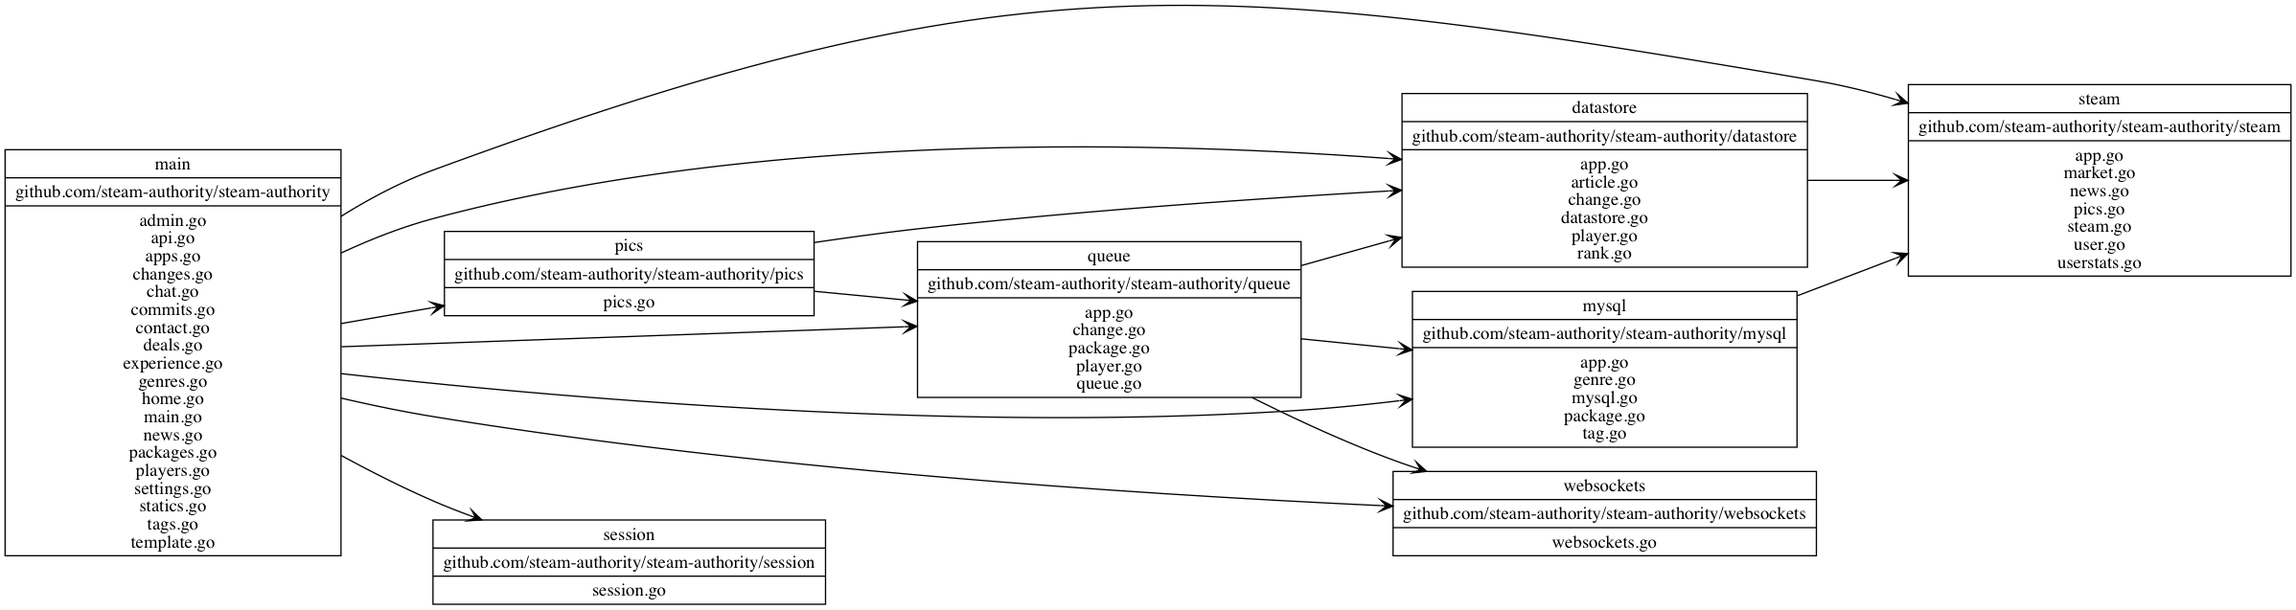
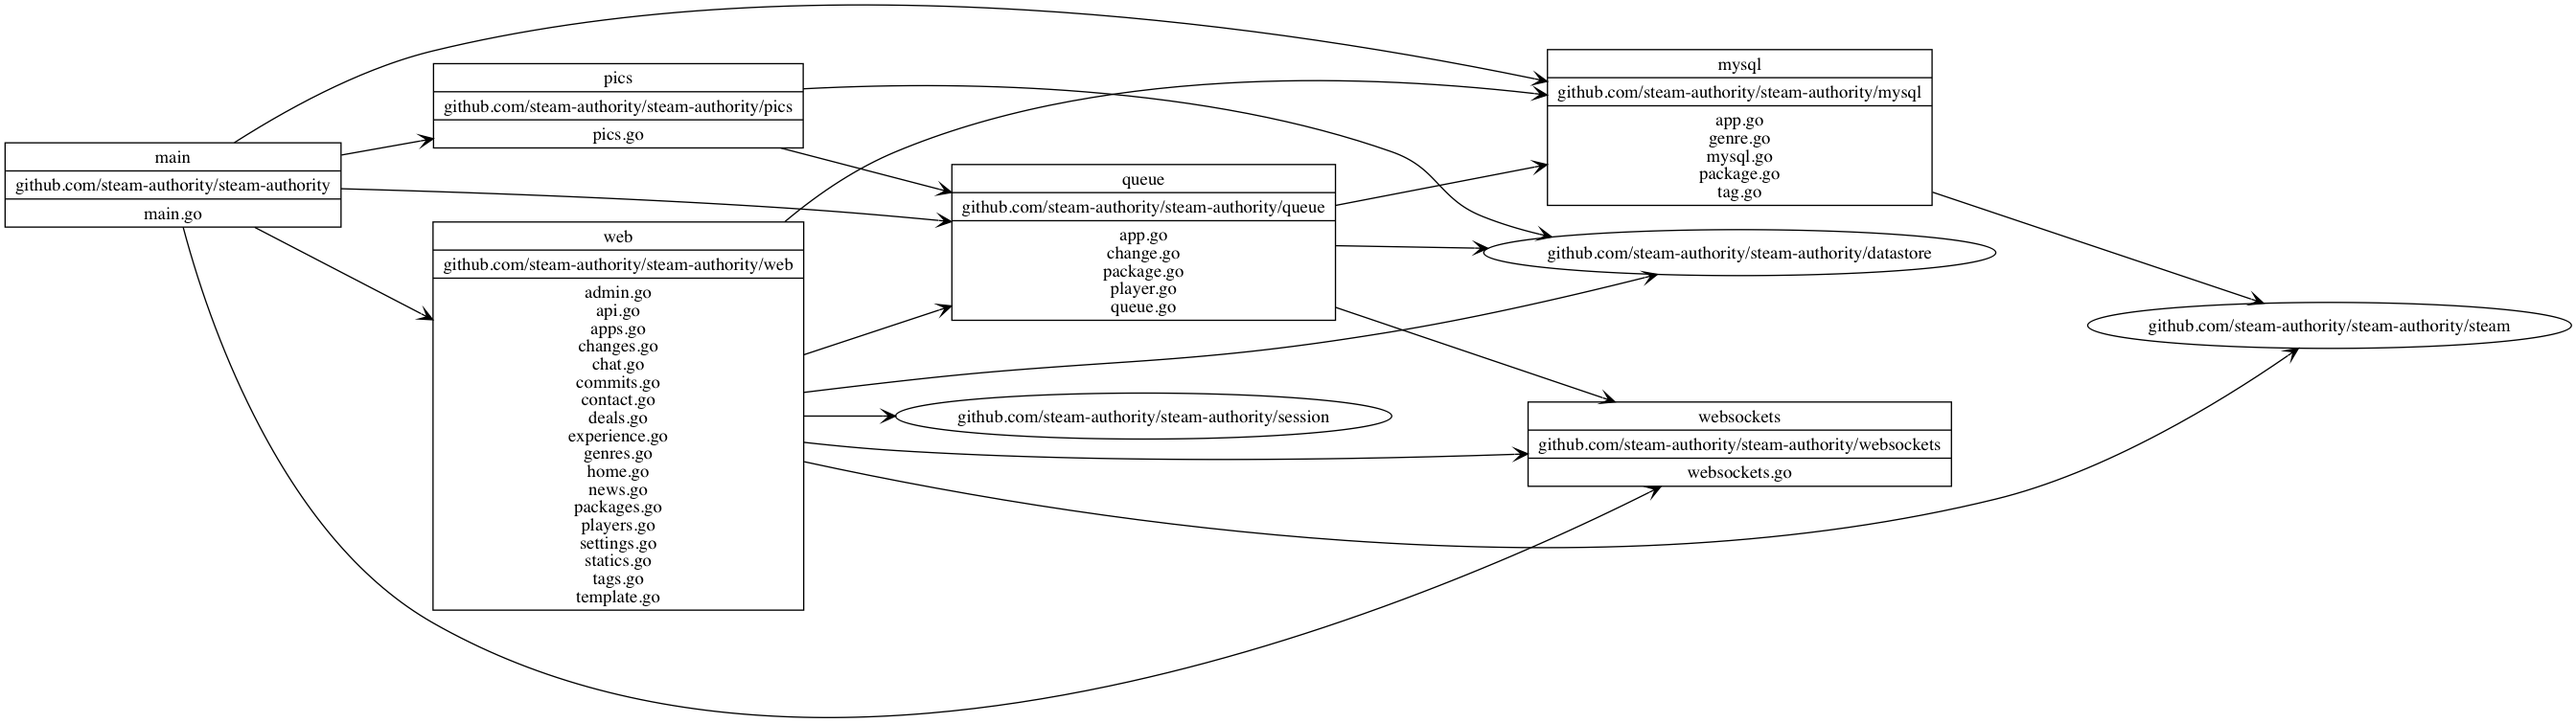
Move handlers to own package

diff --git a/main.go b/main.go
@@ -13,6 +13,7 @@ import (
 	"github.com/steam-authority/steam-authority/mysql"
 	"github.com/steam-authority/steam-authority/pics"
 	"github.com/steam-authority/steam-authority/queue"
+	"github.com/steam-authority/steam-authority/web"
 	"github.com/steam-authority/steam-authority/websockets"
 )
 
@@ -68,50 +69,50 @@ func main() {
 
 	r.Mount("/admin", adminRouter())
 
-	r.Get("/apps", appsHandler)
-	r.Get("/apps/{id}", appHandler)
-	r.Get("/apps/{id}/{slug}", appHandler)
+	r.Get("/apps", web.AppsHandler)
+	r.Get("/apps/{id}", web.AppHandler)
+	r.Get("/apps/{id}/{slug}", web.AppHandler)
 
-	r.Get("/changes", changesHandler)
-	r.Get("/changes/{id}", changeHandler)
+	r.Get("/changes", web.ChangesHandler)
+	r.Get("/changes/{id}", web.ChangeHandler)
 
-	r.Get("/chat", chatHandler)
-	r.Get("/chat/{id}", chatHandler)
+	r.Get("/chat", web.ChatHandler)
+	r.Get("/chat/{id}", web.ChatHandler)
 
-	r.Get("/contact", contactHandler)
-	r.Post("/contact", postContactHandler)
+	r.Get("/contact", web.ContactHandler)
+	r.Post("/contact", web.PostContactHandler)
 
-	r.Get("/deals", dealsHandler)
-	r.Get("/deals/{id}", dealsHandler)
+	r.Get("/deals", web.DealsHandler)
+	r.Get("/deals/{id}", web.DealsHandler)
 
-	r.Get("/experience", experienceHandler)
-	r.Get("/experience/{id}", experienceHandler)
+	r.Get("/experience", web.ExperienceHandler)
+	r.Get("/experience/{id}", web.ExperienceHandler)
 
-	r.Get("/login", loginHandler)
-	r.Get("/logout", logoutHandler)
-	r.Get("/login-callback", loginCallbackHandler)
+	r.Get("/login", web.LoginHandler)
+	r.Get("/logout", web.LogoutHandler)
+	r.Get("/login-callback", web.LoginCallbackHandler)
 
-	r.Get("/packages", packagesHandler)
-	r.Get("/packages/{id}", packageHandler)
+	r.Get("/packages", web.PackagesHandler)
+	r.Get("/packages/{id}", web.PackageHandler)
 
-	r.Post("/players", playerIDHandler)
-	r.Get("/players", playersHandler)
-	r.Get("/players/{id:[a-z]+}", playersHandler)
-	r.Get("/players/{id:[0-9]+}", playerHandler)
-	r.Get("/players/{id:[0-9]+}/{slug}", playerHandler)
+	r.Post("/players", web.PlayerIDHandler)
+	r.Get("/players", web.PlayersHandler)
+	r.Get("/players/{id:[a-z]+}", web.PlayersHandler)
+	r.Get("/players/{id:[0-9]+}", web.PlayerHandler)
+	r.Get("/players/{id:[0-9]+}/{slug}", web.PlayerHandler)
 
-	r.Get("/settings", settingsHandler)
-	r.Post("/settings", saveSettingsHandler)
+	r.Get("/settings", web.SettingsHandler)
+	r.Post("/settings", web.SaveSettingsHandler)
 
 	// Other
-	r.Get("/", homeHandler)
-	r.Get("/commits", commitsHandler)
-	r.Get("/credits", creditsHandler)
-	r.Get("/donate", donateHandler)
-	r.Get("/faqs", faqsHandler)
-	r.Get("/genres", genresHandler)
-	r.Get("/news", newsHandler)
-	r.Get("/tags", tagsHandler)
+	r.Get("/", web.HomeHandler)
+	r.Get("/changelog", web.ChangelogHandler)
+	r.Get("/credits", web.CreditsHandler)
+	r.Get("/donate", web.DonateHandler)
+	r.Get("/faqs", web.FAQsHandler)
+	r.Get("/genres", web.GenresHandler)
+	r.Get("/news", web.NewsHandler)
+	r.Get("/tags", web.TagsHandler)
 	r.Get("/websocket", websockets.Handler)
 
 	// File server
@@ -131,8 +132,8 @@ func adminRouter() http.Handler {
 	r.Use(basicauth.New("Steam", map[string][]string{
 		os.Getenv("STEAM_AUTH_USER"): {os.Getenv("STEAM_AUTH_PASS")},
 	}))
-	r.Get("/", adminHandler)
-	r.Get("/{option}", adminHandler)
+	r.Get("/", web.AdminHandler)
+	r.Get("/{option}", web.AdminHandler)
 	return r
 }
 

diff --git a/web/settings.go b/web/settings.go
@@ -1,4 +1,4 @@
-package main
+package web
 
 import (
 	"github.com/steam-authority/steam-authority/datastore"
@@ -26,7 +26,7 @@ const (
 var nonceStore = openid.NewSimpleNonceStore()
 var discoveryCache = openid.NewSimpleDiscoveryCache()
 
-func loginHandler(w http.ResponseWriter, r *http.Request) {
+func LoginHandler(w http.ResponseWriter, r *http.Request) {
 
 	loggedIn, err := session.IsLoggedIn(r)
 	if err != nil {
@@ -49,7 +49,7 @@ func loginHandler(w http.ResponseWriter, r *http.Request) {
 	http.Redirect(w, r, url, 303)
 	return
 }
-func loginCallbackHandler(w http.ResponseWriter, r *http.Request) {
+func LoginCallbackHandler(w http.ResponseWriter, r *http.Request) {
 
 	openID, err := openid.Verify(os.Getenv("STEAM_DOMAIN")+r.URL.String(), discoveryCache, nonceStore)
 	if err != nil {
@@ -79,14 +79,14 @@ func loginCallbackHandler(w http.ResponseWriter, r *http.Request) {
 	return
 }
 
-func logoutHandler(w http.ResponseWriter, r *http.Request) {
+func LogoutHandler(w http.ResponseWriter, r *http.Request) {
 
 	session.Clear(w, r)
 	http.Redirect(w, r, "/", 303)
 	return
 }
 
-func settingsHandler(w http.ResponseWriter, r *http.Request) {
+func SettingsHandler(w http.ResponseWriter, r *http.Request) {
 
 	loggedIn, err := session.IsLoggedIn(r)
 	if err != nil {
@@ -110,7 +110,7 @@ func settingsHandler(w http.ResponseWriter, r *http.Request) {
 
 }
 
-func saveSettingsHandler(w http.ResponseWriter, r *http.Request) {
+func SaveSettingsHandler(w http.ResponseWriter, r *http.Request) {
 
 }
 

diff --git a/web/statics.go b/web/statics.go
@@ -1,8 +1,8 @@
-package main
+package web
 
 import "net/http"
 
-func creditsHandler(w http.ResponseWriter, r *http.Request) {
+func CreditsHandler(w http.ResponseWriter, r *http.Request) {
 
 	template := staticTemplate{}
 	template.Fill(r)
@@ -10,7 +10,7 @@ func creditsHandler(w http.ResponseWriter, r *http.Request) {
 	returnTemplate(w, r, "credits", template)
 }
 
-func donateHandler(w http.ResponseWriter, r *http.Request) {
+func DonateHandler(w http.ResponseWriter, r *http.Request) {
 
 	template := staticTemplate{}
 	template.Fill(r)
@@ -18,7 +18,7 @@ func donateHandler(w http.ResponseWriter, r *http.Request) {
 	returnTemplate(w, r, "donate", template)
 }
 
-func faqsHandler(w http.ResponseWriter, r *http.Request) {
+func FAQsHandler(w http.ResponseWriter, r *http.Request) {
 
 	template := staticTemplate{}
 	template.Fill(r)

diff --git a/web/players.go b/web/players.go
@@ -1,4 +1,4 @@
-package main
+package web
 
 import (
 	"net/http"
@@ -12,7 +12,7 @@ import (
 	"github.com/steam-authority/steam-authority/steam"
 )
 
-func playersHandler(w http.ResponseWriter, r *http.Request) {
+func PlayersHandler(w http.ResponseWriter, r *http.Request) {
 
 	// Normalise the order
 	var ranks []datastore.Rank
@@ -76,7 +76,7 @@ type playersTemplate struct {
 	RanksCount   int
 }
 
-func playerHandler(w http.ResponseWriter, r *http.Request) {
+func PlayerHandler(w http.ResponseWriter, r *http.Request) {
 
 	id := chi.URLParam(r, "id")
 	slug := chi.URLParam(r, "slug")
@@ -139,7 +139,7 @@ type playerTemplate struct {
 	Friends []datastore.Player
 }
 
-func playerIDHandler(w http.ResponseWriter, r *http.Request) {
+func PlayerIDHandler(w http.ResponseWriter, r *http.Request) {
 
 	post := r.PostFormValue("id")
 

diff --git a/web/packages.go b/web/packages.go
@@ -1,4 +1,4 @@
-package main
+package web
 
 import (
 	"net/http"
@@ -9,7 +9,7 @@ import (
 	"github.com/steam-authority/steam-authority/mysql"
 )
 
-func packagesHandler(w http.ResponseWriter, r *http.Request) {
+func PackagesHandler(w http.ResponseWriter, r *http.Request) {
 
 	packages, err := mysql.GetLatestPackages(100)
 	if err != nil {
@@ -28,7 +28,7 @@ type packagesTemplate struct {
 	Packages []mysql.Package
 }
 
-func packageHandler(w http.ResponseWriter, r *http.Request) {
+func PackageHandler(w http.ResponseWriter, r *http.Request) {
 
 	id, err := strconv.Atoi(chi.URLParam(r, "id"))
 	if err != nil {

diff --git a/web/changes.go b/web/changes.go
@@ -1,4 +1,4 @@
-package main
+package web
 
 import (
 	"net/http"
@@ -9,7 +9,7 @@ import (
 	"github.com/steam-authority/steam-authority/mysql"
 )
 
-func changesHandler(w http.ResponseWriter, r *http.Request) {
+func ChangesHandler(w http.ResponseWriter, r *http.Request) {
 
 	template := changesTemplate{}
 	template.Fill(r)
@@ -72,7 +72,7 @@ type changesTemplate struct {
 	Packages map[int]mysql.Package
 }
 
-func changeHandler(w http.ResponseWriter, r *http.Request) {
+func ChangeHandler(w http.ResponseWriter, r *http.Request) {
 
 	change, err := datastore.GetChange(chi.URLParam(r, "id"))
 	if err != nil {

diff --git a/web/apps.go b/web/apps.go
@@ -1,4 +1,4 @@
-package main
+package web
 
 import (
 	"net/http"
@@ -11,7 +11,7 @@ import (
 	"github.com/steam-authority/steam-authority/mysql"
 )
 
-func appsHandler(w http.ResponseWriter, r *http.Request) {
+func AppsHandler(w http.ResponseWriter, r *http.Request) {
 
 	// Get apps
 	apps, err := mysql.SearchApps(r.URL.Query(), 96, "id DESC")
@@ -40,7 +40,7 @@ type appsTemplate struct {
 	Count int
 }
 
-func appHandler(w http.ResponseWriter, r *http.Request) {
+func AppHandler(w http.ResponseWriter, r *http.Request) {
 
 	id := chi.URLParam(r, "id")
 	slug := chi.URLParam(r, "slug")

diff --git a/web/contact.go b/web/contact.go
@@ -1,4 +1,4 @@
-package main
+package web
 
 import (
 	"net/http"
@@ -9,7 +9,7 @@ import (
 	"github.com/sendgrid/sendgrid-go/helpers/mail"
 )
 
-func contactHandler(w http.ResponseWriter, r *http.Request) {
+func ContactHandler(w http.ResponseWriter, r *http.Request) {
 
 	template:= contactTemplate{}
 	template.Fill(r)
@@ -21,7 +21,7 @@ type contactTemplate struct {
 	GlobalTemplate
 }
 
-func postContactHandler(w http.ResponseWriter, r *http.Request) {
+func PostContactHandler(w http.ResponseWriter, r *http.Request) {
 
 	if err := r.ParseForm(); err != nil {
 		logger.Error(err)

diff --git a/web/news.go b/web/news.go
@@ -1,4 +1,4 @@
-package main
+package web
 
 import (
 	"net/http"
@@ -8,7 +8,7 @@ import (
 	"github.com/steam-authority/steam-authority/mysql"
 )
 
-func newsHandler(w http.ResponseWriter, r *http.Request) {
+func NewsHandler(w http.ResponseWriter, r *http.Request) {
 
 	articles, err := datastore.GetArticles(0, 100)
 	if err != nil {

diff --git a/web/genres.go b/web/genres.go
@@ -1,4 +1,4 @@
-package main
+package web
 
 import (
 	"net/http"
@@ -7,7 +7,7 @@ import (
 	"github.com/steam-authority/steam-authority/mysql"
 )
 
-func genresHandler(w http.ResponseWriter, r *http.Request) {
+func GenresHandler(w http.ResponseWriter, r *http.Request) {
 
 	genres, err := mysql.GetAllGenres()
 	if err != nil {

diff --git a/web/tags.go b/web/tags.go
@@ -1,4 +1,4 @@
-package main
+package web
 
 import (
 	"net/http"
@@ -7,7 +7,7 @@ import (
 	"github.com/steam-authority/steam-authority/mysql"
 )
 
-func tagsHandler(w http.ResponseWriter, r *http.Request) {
+func TagsHandler(w http.ResponseWriter, r *http.Request) {
 
 	tags, err := mysql.GetAllTags()
 	if err != nil {

diff --git a/web/admin.go b/web/admin.go
@@ -1,4 +1,4 @@
-package main
+package web
 
 import (
 	"net/http"
@@ -13,7 +13,7 @@ import (
 	"github.com/steam-authority/steam-authority/steam"
 )
 
-func adminHandler(w http.ResponseWriter, r *http.Request) {
+func AdminHandler(w http.ResponseWriter, r *http.Request) {
 
 	option := chi.URLParam(r, "option")
 
